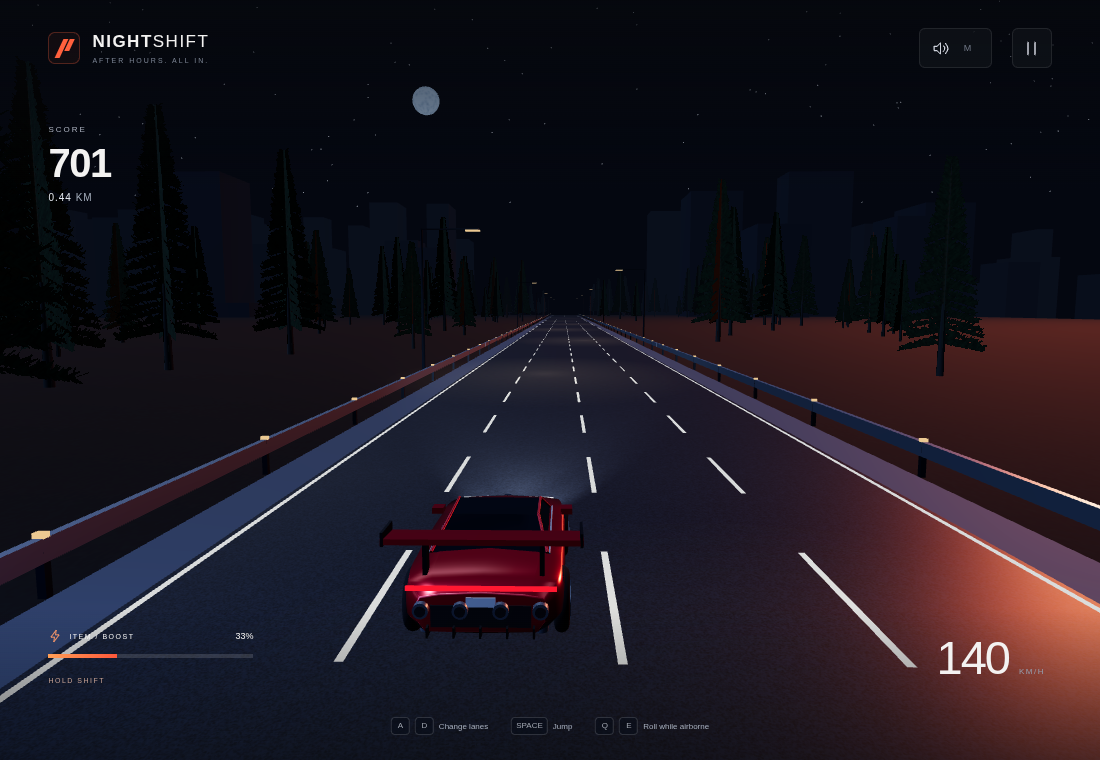
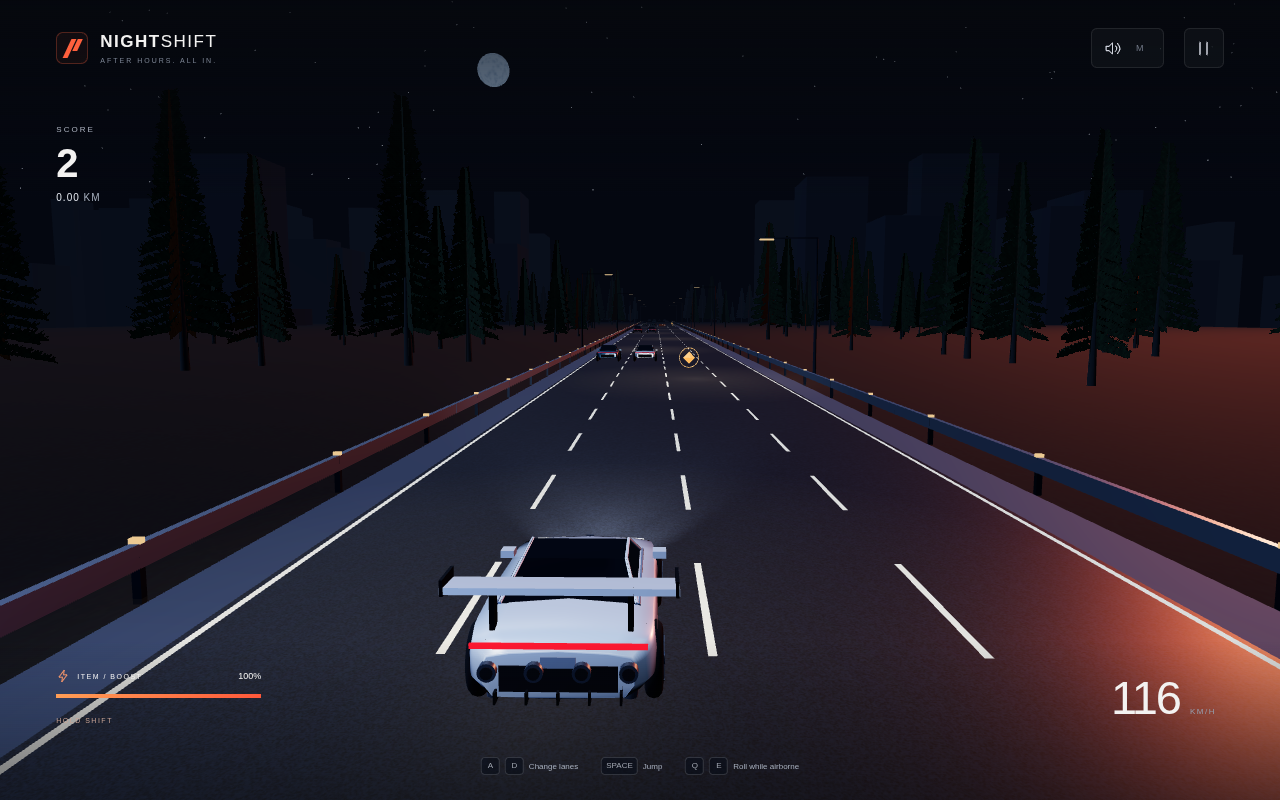
Add white roadster and traffic-hit launches with bonus points

diff --git a/src/i18n.ts b/src/i18n.ts
@@ -1,6 +1,6 @@
 export const en = {
   pilot: 'PILOT', editPilot: 'Edit pilot', tagline: 'THE CITY SLEEPS. YOU DON’T.', rollButton: 'ROLL', boostButton: 'BOOST', personalRecord: 'PERSONAL RECORD',
-  intro: 'Own the night. Find your line.', description: 'Dodge traffic, take flight, and push past your best.',
+  intro: 'Own the night. Find your line.', description: 'Hit traffic to take flight. Watch out for hurdles.',
   best: 'ALL-TIME BEST', distance: 'DISTANCE', score: 'SCORE', play: 'PLAY',
   rankings: 'Rankings', settings: 'Settings', controls: 'Controls', sound: 'Sound',
   independent: 'Independent fan game. Not affiliated with Tesla, Inc.',
@@ -11,8 +11,8 @@ export const en = {
   contextLost: 'Graphics connection lost. Retry to rebuild the scene. Your personal records are saved.',
   retry: 'TRY AGAIN', error: 'LET’S GET YOU BACK ON THE ROAD',
   pause: 'Pause', paused: 'TAKE A BREATHER.', pauseText: 'Your run is right where you left it.',
-  resume: 'RESUME', menu: 'MAIN MENU', over: 'END OF THE ROAD.', collision: 'Traffic caught up. The next run is yours.',
-  again: 'PLAY AGAIN', finalScore: 'FINAL SCORE', finalDistance: 'DISTANCE DRIVEN', record: 'NEW PERSONAL BEST',
+  resume: 'RESUME', menu: 'MAIN MENU', over: 'END OF THE ROAD.', collision: 'You hit a hurdle. Try again and chase your best.',
+  again: 'TRY AGAIN', finalScore: 'FINAL SCORE', finalDistance: 'DISTANCE DRIVEN', record: 'NEW PERSONAL BEST',
   bestComparison: 'PERSONAL BEST', stored: 'Record saved on this device.', notStored: 'Browser storage is unavailable. Records won’t survive a reload.',
   offline: 'Online rankings unavailable', offlineDetail: 'Personal records stay on this device. A ranking server hasn’t been configured.',
   rankingFailed: 'Couldn’t connect to rankings. Offline play is available.', submissionPending: 'Submitting your run…', submissionSaved: 'Run submitted to online rankings.', submissionFailed: 'Online submission failed. Your local record is saved.',
@@ -25,32 +25,32 @@ export const en = {
   steer: 'Change lanes', jump: 'Jump', boost: 'Hold to boost', roll: 'Roll while airborne', brake: 'Brake', horn: 'Horn',
   mute: 'Mute', restart: 'Restart after a crash', pauseControl: 'Pause / resume',
   touchHint: 'On mobile, use the left/right pads and JUMP, ROLL, and BOOST buttons. Hold a direction to cross more lanes. Gold cells refill boost.',
-  startHint: 'Jump over traffic. Q / E adds a roll for +250 points. Close passes earn +100. Gold cells give +30 energy and +75 points.',
+  startHint: 'Hit a traffic car to launch upward and earn +200 points once per car. Hitting an orange hurdle ends the run. Q / E adds an airborne roll for +250. Gold cells refill boost.',
   letsDrive: 'LET’S DRIVE', close: 'Close',
   profile: 'YOUR PILOT', name: 'Pilot name', region: 'Region', regionHint: 'Region is your choice. No location permission is requested.', save: 'SAVE PILOT',
   regionGLOBAL: 'Worldwide', regionNA: 'North America', regionSA: 'South America', regionEU: 'Europe', regionAS: 'Asia', regionAF: 'Africa', regionOC: 'Oceania',
   item: 'ITEM / BOOST', active: 'BOOST ACTIVE', depleted: 'RECHARGING', charged: 'HOLD SHIFT', speed: 'KM/H',
-  jumpCue: 'AIRBORNE', rollCue: 'BARREL ROLL +250', pickupCue: 'ENERGY +30', nearCue: 'CLOSE CALL +100',
+  jumpCue: 'AIRBORNE', rollCue: 'BARREL ROLL +250', pickupCue: 'ENERGY +30', nearCue: 'CLOSE CALL +100', ramCue: 'TRAFFIC HIT +200',
   privacyBody: 'Settings, your pilot name, and personal records are stored in your browser. No analytics or location tracking are included. If an optional ranking service is enabled, submitting a run sends your chosen name, region, distance, and run statistics to that service. You can clear saved data in your browser settings.',
   termsBody: 'A free independent fan game for entertainment. Tesla is a trademark of its owner; this project is not affiliated with or endorsed by Tesla, Inc. Drive safely in real life. Online scores are client reported and may not be cheat-proof.',
-  aboutBody: 'Tesla Night Shift is an original Three.js arcade game: one night highway, a red roadster, and a new record to chase. Vehicle geometry, scenery, textures, effects, and synthesized audio are generated locally. Inspired by the interface and gameplay brief supplied for Roadster Dash; its live gameplay could not be independently inspected.',
+  aboutBody: 'Tesla Night Shift is an original Three.js arcade game: one night highway, a white roadster, and a new record to chase. Vehicle geometry, scenery, textures, effects, and synthesized audio are generated locally. Inspired by the interface and gameplay brief supplied for Roadster Dash; its live gameplay could not be independently inspected.',
   aboutTitle: 'ABOUT NIGHT SHIFT', privacyTitle: 'YOUR PRIVACY', termsTitle: 'PLAYING FAIR',
   submissionOffline: 'Local records only · online rankings unavailable',
 };
 export type TextKey = keyof typeof en;
 export const es: Record<TextKey, string> = {
   pilot: 'PILOTO', editPilot: 'Editar piloto', tagline: 'LA CIUDAD DUERME. TÚ NO.', rollButton: 'GIRAR', boostButton: 'TURBO', personalRecord: 'RÉCORD PERSONAL',
-  intro: 'Domina la noche. Encuentra tu camino.', description: 'Esquiva el tráfico, salta y supera tu récord.',
+  intro: 'Domina la noche. Encuentra tu camino.', description: 'Golpea el tráfico para volar. Evita las barreras.',
   best: 'MEJOR PUNTUACIÓN', distance: 'DISTANCIA', score: 'PUNTOS', play: 'JUGAR', rankings: 'Clasificación', settings: 'Ajustes', controls: 'Controles', sound: 'Sonido',
   independent: 'Juego independiente. Sin afiliación con Tesla, Inc.', privacy: 'Privacidad', terms: 'Términos', about: 'Acerca de', support: 'Apoyar', ready: '¿LISTO PARA UN NUEVO RÉCORD?', night: 'AUTOPISTA NOCTURNA', original: 'CONDUCCIÓN ARCADE ORIGINAL',
   loading: 'PREPARANDO LA NOCHE', loadCheck: 'Comprobando gráficos', loadWorld: 'Creando autopista y vehículos', loadReady: 'Listo para conducir',
   graphicsError: 'El navegador no pudo iniciar la escena 3D.', unsupported: 'Este juego requiere WebGL 2. Activa la aceleración gráfica, actualiza el navegador o prueba otro dispositivo.', contextLost: 'Se perdió la conexión gráfica. Reintenta para reconstruir la escena. Tus récords están guardados.', retry: 'REINTENTAR', error: 'VOLVAMOS A LA CARRETERA',
-  pause: 'Pausa', paused: 'TOMA UN RESPIRO.', pauseText: 'Tu partida sigue donde la dejaste.', resume: 'CONTINUAR', menu: 'MENÚ PRINCIPAL', over: 'FIN DEL CAMINO.', collision: 'El tráfico te alcanzó. La próxima es tuya.', again: 'VOLVER A JUGAR', finalScore: 'PUNTUACIÓN FINAL', finalDistance: 'DISTANCIA RECORRIDA', record: 'NUEVO RÉCORD PERSONAL', bestComparison: 'RÉCORD PERSONAL', stored: 'Récord guardado en este dispositivo.', notStored: 'El almacenamiento no está disponible. Los récords se perderán al recargar.',
+  pause: 'Pausa', paused: 'TOMA UN RESPIRO.', pauseText: 'Tu partida sigue donde la dejaste.', resume: 'CONTINUAR', menu: 'MENÚ PRINCIPAL', over: 'FIN DEL CAMINO.', collision: 'Chocaste con una barrera. Reintenta y supera tu récord.', again: 'REINTENTAR', finalScore: 'PUNTUACIÓN FINAL', finalDistance: 'DISTANCIA RECORRIDA', record: 'NUEVO RÉCORD PERSONAL', bestComparison: 'RÉCORD PERSONAL', stored: 'Récord guardado en este dispositivo.', notStored: 'El almacenamiento no está disponible. Los récords se perderán al recargar.',
   offline: 'Clasificación en línea no disponible', offlineDetail: 'Los récords se guardan en este dispositivo. No hay servidor de clasificación configurado.', rankingFailed: 'No se pudo conectar. Puedes jugar sin conexión.', submissionPending: 'Enviando tu partida…', submissionSaved: 'Partida enviada a la clasificación.', submissionFailed: 'No se pudo enviar. Tu récord local está guardado.',
   globalTop: 'TOP 100 GLOBAL', allTime: 'HISTÓRICO', weekly: 'SEMANAL', global: 'GLOBAL', regional: 'MI REGIÓN', weeklyNote: 'La clasificación semanal se reinicia los lunes a las 00:00 UTC.', rankLoading: 'Cargando clasificación…', emptyRank: 'Aún no hay partidas. ¡Consigue el primer récord!',
   graphics: 'Calidad gráfica', qualityLow: 'Baja · rendimiento', qualityMedium: 'Media · equilibrada', qualityHigh: 'Alta · detalle', volume: 'Volumen de efectos', muted: 'Silenciar', reduced: 'Movimiento reducido', shake: 'Vibración de cámara', settingsHint: 'Los ajustes se guardan automáticamente en este dispositivo.',
   how: 'ENCUENTRA TU RITMO.', controlsIntro: 'El avance es automático. Elige tu carril y el momento de saltar.', steer: 'Cambiar de carril', jump: 'Saltar', boost: 'Mantener para acelerar', roll: 'Girar en el aire', brake: 'Frenar', horn: 'Bocina', mute: 'Silenciar', restart: 'Reiniciar tras un choque', pauseControl: 'Pausar / continuar',
-  touchHint: 'En móvil, usa los botones de dirección, SALTAR, GIRAR y TURBO. Mantén una dirección para cruzar más carriles. Las celdas doradas recargan el turbo.', startHint: 'Salta el tráfico. Q / E añade un giro por +250 puntos. Pasar cerca da +100. Las celdas dan +30 de energía y +75 puntos.', letsDrive: 'A CONDUCIR', close: 'Cerrar', profile: 'TU PILOTO', name: 'Nombre del piloto', region: 'Región', regionHint: 'Tú eliges la región. No se solicita tu ubicación.', save: 'GUARDAR PILOTO',
+  touchHint: 'En móvil, usa los botones de dirección, SALTAR, GIRAR y TURBO. Mantén una dirección para cruzar más carriles. Las celdas doradas recargan el turbo.', startHint: 'Golpea un coche para saltar y ganar +200 puntos una vez por coche. Chocar con una barrera naranja termina la partida. Q / E añade un giro en el aire por +250. Las celdas recargan el turbo.', letsDrive: 'A CONDUCIR', close: 'Cerrar', profile: 'TU PILOTO', name: 'Nombre del piloto', region: 'Región', regionHint: 'Tú eliges la región. No se solicita tu ubicación.', save: 'GUARDAR PILOTO',
   regionGLOBAL: 'Todo el mundo', regionNA: 'América del Norte', regionSA: 'América del Sur', regionEU: 'Europa', regionAS: 'Asia', regionAF: 'África', regionOC: 'Oceanía',
-  item: 'OBJETO / TURBO', active: 'TURBO ACTIVO', depleted: 'RECARGANDO', charged: 'MANTÉN SHIFT', speed: 'KM/H', jumpCue: 'EN EL AIRE', rollCue: 'GIRO +250', pickupCue: 'ENERGÍA +30', nearCue: 'POR POCO +100', privacyBody: 'Los ajustes, el nombre del piloto y los récords se guardan en tu navegador. No se incluyen análisis ni seguimiento de ubicación. Si se activa un servidor de clasificación, enviar una partida comparte tu nombre elegido, región, distancia y estadísticas con ese servicio. Puedes borrar los datos en los ajustes del navegador.', termsBody: 'Juego independiente gratuito de entretenimiento. Tesla es una marca de su propietario; este proyecto no está afiliado ni respaldado por Tesla, Inc. Conduce con seguridad en la vida real. Las puntuaciones en línea son enviadas por el cliente y no son inmunes a trampas.', aboutBody: 'Tesla Night Shift es un juego arcade original de Three.js: una autopista nocturna, un deportivo rojo y un nuevo récord. La geometría, el entorno, las texturas, los efectos y el audio se generan localmente. Inspirado en la especificación de Roadster Dash; no se pudo inspeccionar su juego en vivo.', aboutTitle: 'ACERCA DE NIGHT SHIFT', privacyTitle: 'TU PRIVACIDAD', termsTitle: 'JUEGO LIMPIO', submissionOffline: 'Solo récords locales · clasificación no disponible',
+  item: 'OBJETO / TURBO', active: 'TURBO ACTIVO', depleted: 'RECARGANDO', charged: 'MANTÉN SHIFT', speed: 'KM/H', jumpCue: 'EN EL AIRE', rollCue: 'GIRO +250', pickupCue: 'ENERGÍA +30', nearCue: 'POR POCO +100', ramCue: 'CHOQUE CON TRÁFICO +200', privacyBody: 'Los ajustes, el nombre del piloto y los récords se guardan en tu navegador. No se incluyen análisis ni seguimiento de ubicación. Si se activa un servidor de clasificación, enviar una partida comparte tu nombre elegido, región, distancia y estadísticas con ese servicio. Puedes borrar los datos en los ajustes del navegador.', termsBody: 'Juego independiente gratuito de entretenimiento. Tesla es una marca de su propietario; este proyecto no está afiliado ni respaldado por Tesla, Inc. Conduce con seguridad en la vida real. Las puntuaciones en línea son enviadas por el cliente y no son inmunes a trampas.', aboutBody: 'Tesla Night Shift es un juego arcade original de Three.js: una autopista nocturna, un deportivo blanco y un nuevo récord. La geometría, el entorno, las texturas, los efectos y el audio se generan localmente. Inspirado en la especificación de Roadster Dash; no se pudo inspeccionar su juego en vivo.', aboutTitle: 'ACERCA DE NIGHT SHIFT', privacyTitle: 'TU PRIVACIDAD', termsTitle: 'JUEGO LIMPIO', submissionOffline: 'Solo récords locales · clasificación no disponible',
 };

diff --git a/index.html b/index.html
@@ -22,7 +22,7 @@
   <symbol id="i-pause" viewBox="0 0 24 24"><path d="M8 5v14M16 5v14"/></symbol>
 </defs></svg>
 <main id="app">
-  <canvas id="world" aria-label="Interactive 3D night highway with a red Tesla-inspired sports car"></canvas>
+  <canvas id="world" aria-label="Interactive 3D night highway with a white Tesla-inspired sports car"></canvas>
   <div class="scene-shade" aria-hidden="true"></div>
   <header class="topbar" id="topbar" hidden>
     <a class="brand" href="#" id="brand-home" aria-label="Night Shift main menu"><i class="brand-mark" aria-hidden="true"></i><span>NIGHT<span class="brand-light">SHIFT</span><small>AFTER HOURS. ALL IN.</small></span></a>
@@ -41,7 +41,7 @@
     <div class="eyebrow"><span class="status-dot"></span><span data-t="tagline">THE CITY SLEEPS. YOU DON’T.</span></div>
     <h1><span id="title-first">TESLA</span><span id="title-second">NIGHT SHIFT</span><i class="title-period">.</i></h1>
     <p class="menu-intro" data-t="intro">Own the night. Find your line.</p>
-    <p class="menu-description" data-t="description">Dodge traffic, take flight, and push past your best.</p>
+    <p class="menu-description" data-t="description">Hit traffic to take flight. Watch out for hurdles.</p>
     <div class="records">
       <div><span data-t="best">ALL-TIME BEST</span><strong id="menu-best">0</strong><small data-t="score">SCORE</small></div>
       <div><span data-t="distance">DISTANCE</span><strong id="menu-distance">0.00<small> KM</small></strong><small data-t="personalRecord">PERSONAL RECORD</small></div>
@@ -53,7 +53,7 @@
       <button data-panel="controls"><svg><use href="#i-controls"/></svg><span data-t="controls">Controls</span></button>
     </nav>
   </section>
-  <div class="scene-caption" id="scene-caption" hidden><span>01 <i></i> <span data-t="night">NIGHT HIGHWAY</span></span><strong>REDLINE ROADSTER</strong><small data-t="original">ORIGINAL ARCADE DRIVING</small></div>
+  <div class="scene-caption" id="scene-caption" hidden><span>01 <i></i> <span data-t="night">NIGHT HIGHWAY</span></span><strong>WHITEOUT ROADSTER</strong><small data-t="original">ORIGINAL ARCADE DRIVING</small></div>
   <footer id="footer" hidden>
     <p data-t="independent">Independent fan game. Not affiliated with Tesla, Inc.</p>
     <nav><button data-panel="privacy" data-t="privacy">Privacy</button><button data-panel="terms" data-t="terms">Terms</button><button data-panel="about" data-t="about">About</button><a id="support-link" hidden data-t="support">Support</a><label class="language-label"><span aria-hidden="true">◎</span><select id="language" aria-label="Language"><option value="en">EN</option><option value="es">ES</option></select></label></nav>
@@ -73,7 +73,7 @@
     <section class="card state-card" role="dialog" aria-modal="true" aria-labelledby="pause-title"><div class="eyebrow" data-t="pause">Pause</div><h2 id="pause-title" data-t="paused">TAKE A BREATHER.</h2><p data-t="pauseText">Your run is right where you left it.</p><button class="primary" id="resume-button" data-t="resume">RESUME</button><button class="secondary" data-panel="settings" data-t="settings">Settings</button><button class="text-button" id="pause-menu-button" data-t="menu">MAIN MENU</button></section>
   </div>
   <div class="overlay" id="over-overlay" hidden>
-    <section class="card state-card gameover-card" role="dialog" aria-modal="true" aria-labelledby="over-title"><div class="eyebrow" id="record-label" data-t="over">END OF THE ROAD.</div><h2 id="over-title" data-t="over">END OF THE ROAD.</h2><p data-t="collision">Traffic caught up. The next run is yours.</p><div class="result-grid"><div><span data-t="finalScore">FINAL SCORE</span><strong id="final-score">0</strong></div><div><span data-t="finalDistance">DISTANCE DRIVEN</span><strong><b id="final-distance">0.00</b><small> KM</small></strong></div></div><div class="best-line"><span data-t="bestComparison">PERSONAL BEST</span><b id="final-best">0</b></div><p class="local-status" id="local-status"></p><p class="submission-status" id="submission-status" aria-live="polite"></p><button class="primary" id="again-button"><span data-t="again">PLAY AGAIN</span><kbd>R</kbd></button><button class="text-button" id="over-menu-button" data-t="menu">MAIN MENU</button></section>
+    <section class="card state-card gameover-card" role="dialog" aria-modal="true" aria-labelledby="over-title"><div class="eyebrow" id="record-label" data-t="over">END OF THE ROAD.</div><h2 id="over-title" data-t="over">END OF THE ROAD.</h2><p data-t="collision">You hit a hurdle. Try again and chase your best.</p><div class="result-grid"><div><span data-t="finalScore">FINAL SCORE</span><strong id="final-score">0</strong></div><div><span data-t="finalDistance">DISTANCE DRIVEN</span><strong><b id="final-distance">0.00</b><small> KM</small></strong></div></div><div class="best-line"><span data-t="bestComparison">PERSONAL BEST</span><b id="final-best">0</b></div><p class="local-status" id="local-status"></p><p class="submission-status" id="submission-status" aria-live="polite"></p><button class="primary" id="again-button"><span data-t="again">TRY AGAIN</span><kbd>R</kbd></button><button class="text-button" id="over-menu-button" data-t="menu">MAIN MENU</button></section>
   </div>
   <div class="overlay modal-overlay" id="panel-overlay" hidden>
     <section class="card panel-card" role="dialog" aria-modal="true" aria-labelledby="panel-title" tabindex="-1">

diff --git a/tests/simulation.test.ts b/tests/simulation.test.ts
@@ -37,10 +37,34 @@ test('swept collision detects a high-speed crossing but lets an airborne car cle
   assert(!sweptBox([0, 3, 20], [0, 3, -20], [1, 1, 4]));
   const r = empty(), car = { ...r.obstacles[0], active: true, x: r.x, prevZ: -10, z: 10 };
   assert(hitsTraffic(r, car)); r.y = r.prevY = 2.5; assert(!hitsTraffic(r, car));
-  r.y = r.prevY = 0; Object.assign(r.obstacles[0], car, { z: -3.6, prevZ: -3.6 });
+  r.y = r.prevY = 0; Object.assign(r.obstacles[0], car, { z: -2, prevZ: -2, variant: 2, speed: 0, height: 1.05, length: 1.1 });
   let collision = 0; simulate(r, emptyCommands(), 1 / 120, e => { if (e === 'collision') collision++; });
   assert(!r.alive); assert.equal(collision, 1); const distance = r.distance;
   simulate(r, emptyCommands(), 1 / 120); assert.equal(r.distance, distance);
+});
+test('traffic collisions launch the player and award 200 points only once per car', () => {
+  for (const variant of [0, 1]) {
+    const r = empty(), car = r.obstacles[0], events: string[] = [];
+    Object.assign(car, { active: true, x: r.x, z: -3.5, prevZ: -3.5, variant });
+    simulate(r, emptyCommands(), 1 / 120, e => events.push(e));
+    assert(r.alive && r.y > 0 && r.vy > 11.5); assert.equal(r.trafficHits, 1);
+    assert(r.score >= 200); assert.equal(events.filter(e => e === 'ram').length, 1);
+    assert(!events.includes('collision')); assert(car.hit && car.nearMissed);
+    step(r, .4); assert(r.y > 2 && r.alive); assert.equal(r.trafficHits, 1);
+    // Landing against the same car cannot farm the bonus.
+    r.y = r.prevY = r.vy = 0; car.z = car.prevZ = -2;
+    step(r, .1); assert.equal(r.trafficHits, 1); assert.equal(r.nearMisses, 0); assert.equal(r.vy, 0);
+    const fresh = createRun(); assert.equal(fresh.trafficHits, 0); assert(fresh.obstacles.every(o => !o.hit));
+  }
+});
+test('hurdles still end a run during a traffic launch, but can be cleared by jumping', () => {
+  const r = empty();
+  Object.assign(r.obstacles[0], { active: true, x: r.x, z: -3.5, variant: 0 });
+  Object.assign(r.obstacles[1], { active: true, x: r.x, z: -2, variant: 2, speed: 0, height: 1.05, length: 1.1 });
+  step(r, .02); assert.equal(r.trafficHits, 1); assert(!r.alive);
+  const airborne = empty(); airborne.y = airborne.prevY = 2.5;
+  Object.assign(airborne.obstacles[0], { active: true, x: airborne.x, z: -2, variant: 2, speed: 0, height: 1.05, length: 1.1 });
+  step(airborne, .03); assert(airborne.alive); assert.equal(airborne.trafficHits, 0);
 });
 test('pickups refill energy once and near misses score once', () => {
   const r = empty(); r.energy = 15; Object.assign(r.pickupsPool[0], { active: true, lane: 1, z: -2.9, prevZ: -2.9 });
@@ -55,14 +79,21 @@ test('pickups refill energy once and near misses score once', () => {
 test('generated traffic always leaves a connected, reachable corridor with bounded density', () => {
   const r = empty(887); r.distance = 35000;
   for (let i = 0; i < 1000; i++) {
-    r.obstacles.forEach(o => o.active = false); r.pickupsPool.forEach(p => p.active = false);
+    r.obstacles.forEach(o => { o.active = false; o.hit = true; }); r.pickupsPool.forEach(p => p.active = false);
     const previous = r.lastSafeLane; spawnRow(r, -420);
     const active = r.obstacles.filter(o => o.active);
-    assert(active.length >= 1 && active.length <= 3);
+    assert(active.length >= 2 && active.length <= 3);
+    assert(active.filter(o => o.variant !== 2).length >= 2);
+    assert(active.filter(o => o.variant === 2).length <= 1);
     assert(!active.some(o => o.lane === r.lastSafeLane)); assert(Math.abs(previous - r.lastSafeLane) <= 1);
-    assert(rowSpacing(66, i / 1000) / 66 >= 2.25);
-    assert(active.every(o => o.speed === 18));
+    assert(rowSpacing(66, i / 1000) / 66 >= 1.95);
+    assert(active.every(o => o.speed === (o.variant === 2 ? 0 : 18) && !o.hit));
   }
+});
+test('a new run starts with at least ten traffic cars and a stationary hurdle', () => {
+  const active = createRun().obstacles.filter(o => o.active);
+  assert(active.filter(o => o.variant !== 2).length >= 10);
+  assert(active.some(o => o.variant === 2 && o.speed === 0));
 });
 test('speed and traffic difficulty increase within limits over a long run', () => {
   const r = empty(); step(r, 600); assert(r.speed <= 61.01 && r.speed > 60); assert(r.energy <= 100);

diff --git a/src/simulation.ts b/src/simulation.ts
@@ -1,4 +1,4 @@
-import { clamp, GRAVITY, JUMP_VELOCITY, LANES } from './config';
+import { clamp, GRAVITY, JUMP_VELOCITY, LANES, TRAFFIC_HIT_POINTS, TRAFFIC_LAUNCH_SPEED, TRAFFIC_SPAWN_Z } from './config';
 import { hitsTraffic, sweptBox } from './collisions';
 import { rowSpacing, spawnRow } from './traffic';
 import type { Commands, Run, SimEvent } from './types';
@@ -8,17 +8,16 @@ export function createRun(seed = 1927): Run {
     x: LANES[1], prevX: LANES[1], lane: 1, y: 0, prevY: 0, vy: 0,
     speed: 32, distance: 0, elapsed: 0, score: 0, energy: 100, boosting: false, boostLocked: false,
     roll: 0, rollTime: -1, rollDuration: .65, rollDirection: 1, rolls: 0, nearMisses: 0,
-    pickups: 0, jumpCooldown: 0, alive: true, nextRow: 110, rowIndex: 0, seed, lastSafeLane: 1,
+    pickups: 0, trafficHits: 0, jumpCooldown: 0, alive: true, nextRow: 125, rowIndex: 0, seed, lastSafeLane: 1,
     obstacles: Array.from({ length: 36 }, (_, id) => ({ active: false, id, lane: 0, x: 0, z: 0,
-      prevZ: 0, speed: 18, height: 1.5, length: 4.75, width: 1.9, variant: 0, nearMissed: false })),
+      prevZ: 0, speed: 18, height: 1.5, length: 4.75, width: 1.9, variant: 0, nearMissed: false, hit: false })),
     pickupsPool: Array.from({ length: 12 }, () => ({ active: false, lane: 0, z: 0, prevZ: 0, phase: 0 })),
   };
-  for (const z of [-110, -280, -450]) spawnRow(run, z);
-  run.nextRow = 175;
+  for (const z of [-70, -195, -320, -445, TRAFFIC_SPAWN_Z]) spawnRow(run, z);
   return run;
 }
 export const emptyCommands = (): Commands => ({ lane: 0, jump: false, roll: 0, boost: false, brake: false, horn: false });
-const calculateScore = (run: Run) => Math.floor(run.distance * (1 + Math.min(run.elapsed / 600, .5)) + run.rolls * 250 + run.nearMisses * 100 + run.pickups * 75);
+const calculateScore = (run: Run) => Math.floor(run.distance * (1 + Math.min(run.elapsed / 600, .5)) + run.rolls * 250 + run.nearMisses * 100 + run.pickups * 75 + run.trafficHits * TRAFFIC_HIT_POINTS);
 
 // Called only with fixed steps by the loop. It has no DOM, Three.js, clock, or audio dependencies.
 export function simulate(run: Run, input: Commands, dt: number, emit: (event: SimEvent) => void = () => {}) {
@@ -63,7 +62,16 @@ export function simulate(run: Run, input: Commands, dt: number, emit: (event: Si
   for (const car of run.obstacles) {
     if (!car.active) continue;
     car.prevZ = car.z; car.z += (run.speed - car.speed) * dt;
-    if (hitsTraffic(run, car)) { run.alive = false; run.score = calculateScore(run); emit('collision'); return; }
+    if (!car.hit && hitsTraffic(run, car)) {
+      if (car.variant === 2) {
+        run.alive = false; run.score = calculateScore(run); emit('collision'); return;
+      }
+      // Each traffic car awards one launch. Hurdles remain lethal, even during
+      // a launch, unless the car's actual jump height clears their collider.
+      car.hit = true; car.nearMissed = true; run.trafficHits++;
+      run.y = Math.max(run.y, .12); run.vy = Math.max(run.vy, TRAFFIC_LAUNCH_SPEED);
+      run.jumpCooldown = .15; run.score = calculateScore(run); emit('ram');
+    }
     if (!car.nearMissed && car.prevZ <= 3 && car.z > 3) {
       car.nearMissed = true;
       if (Math.abs(run.x - car.x) < 3.9) { run.nearMisses++; emit('near'); }
@@ -81,7 +89,7 @@ export function simulate(run: Run, input: Commands, dt: number, emit: (event: Si
   }
   run.nextRow -= (run.speed - 18) * dt;
   if (run.nextRow <= 0) {
-    spawnRow(run, -420);
+    spawnRow(run, TRAFFIC_SPAWN_Z);
     // Use maximum boost speed for the spacing guarantee, not only current speed.
     run.nextRow += rowSpacing(84 - 18, run.distance / 14000);
   }

diff --git a/src/traffic.ts b/src/traffic.ts
@@ -6,10 +6,10 @@ export function random(run: Run) {
   return run.seed / 4294967296;
 }
 export function rowSpacing(speed: number, difficulty: number) {
-  // At least 2.25s between rows even at boost speed. Adjacent safe lanes need
-  // at most 0.45s to reach, leaving >1.8s for reaction. Traffic has equal speed
-  // and no lane changes, so later rows cannot catch the previous row.
-  return Math.max(145, speed * (2.8 - Math.min(difficulty, 1) * .55));
+  // Denser car rows retain at least 1.95s at maximum relative boost speed.
+  // An adjacent reserved lane takes <0.45s to reach. All traffic cars share
+  // a speed; stationary hurdles are limited to one every third row.
+  return Math.max(125, speed * (2.3 - Math.min(Math.max(difficulty, 0), 1) * .35));
 }
 export function spawnRow(run: Run, z: number) {
   const difficulty = Math.min(1, run.distance / 14000);
@@ -21,13 +21,14 @@ export function spawnRow(run: Run, z: number) {
   for (let i = blocked.length - 1; i > 0; i--) {
     const j = Math.floor(random(run) * (i + 1)); [blocked[i], blocked[j]] = [blocked[j], blocked[i]];
   }
-  const count = run.rowIndex < 3 ? 1 : 1 + (random(run) < .55 + difficulty * .35 ? 1 : 0) + (difficulty > .35 && random(run) < difficulty * .45 ? 1 : 0);
-  for (const lane of blocked.slice(0, count)) {
+  const hasHurdle = run.rowIndex >= 2 && run.rowIndex % 3 === 2;
+  const count = hasHurdle ? 3 : run.rowIndex < 2 ? 2 : 2 + (random(run) < .65 + difficulty * .3 ? 1 : 0);
+  for (const [index, lane] of blocked.slice(0, count).entries()) {
     const car = run.obstacles.find(o => !o.active); if (!car) break;
-    const variant = Math.floor(random(run) * 3);
-    Object.assign(car, { active: true, lane, x: LANES[lane], z, prevZ: z, speed: 18,
+    const variant = hasHurdle && index === 2 ? 2 : Math.floor(random(run) * 2);
+    Object.assign(car, { active: true, lane, x: LANES[lane], z, prevZ: z, speed: variant === 2 ? 0 : 18,
       height: variant === 1 ? 1.76 : variant === 2 ? 1.05 : 1.48,
-      length: variant === 2 ? 1.1 : 4.75, width: variant === 2 ? 2.5 : 1.9, variant, nearMissed: false });
+      length: variant === 2 ? 1.1 : 4.75, width: variant === 2 ? 2.5 : 1.9, variant, nearMissed: false, hit: false });
   }
   if (run.rowIndex % 2 === 0) {
     const item = run.pickupsPool.find(p => !p.active);

diff --git a/tests/leaderboard.test.js b/tests/leaderboard.test.js
@@ -13,6 +13,10 @@ test('weekly reset uses Monday midnight UTC and server recomputes scores', () =>
   assert.throws(() => validateRun({ ...data, distance: 99999 }, 12));
   assert.throws(() => validateRun({ ...data, rolls: 9999 }, 12));
   assert.throws(() => validateRun({ ...data, elapsed: NaN }, 12));
+  assert.equal(validateRun({ ...data, trafficHits: 2 }, 12).score, accepted.score + 400);
+  for (const trafficHits of [-1, .5, NaN, Infinity, '2', 10000]) {
+    assert.throws(() => validateRun({ ...data, trafficHits }, 12));
+  }
 });
 test('optional service issues one-use tickets, ranks actual submissions, filters, and rate limits', async () => {
   const dir = await mkdtemp(join(tmpdir(), 'night-ranking-'));
@@ -24,9 +28,10 @@ test('optional service issues one-use tickets, ranks actual submissions, filters
     assert.equal((await (await fetch(base + '/rankings')).json()).entries.length, 0);
     assert.equal((await post('/runs', {}, 'https://wrong.test')).status, 403);
     const { ticket } = await (await post('/runs', {})).json(); assert(ticket);
-    const run = { ticket, name: 'Real Pilot', region: 'AS', distance: 38, elapsed: 1, wallDuration: 1, rolls: 0, nearMisses: 0, pickups: 0 };
+    const run = { ticket, name: 'Real Pilot', region: 'AS', distance: 38, elapsed: 1, wallDuration: 1, rolls: 0, nearMisses: 0, pickups: 0, trafficHits: 1 };
     assert.equal((await post('/scores', run)).status, 201); assert.equal((await post('/scores', run)).status, 400);
     const all = await (await fetch(base + '/rankings?metric=distance')).json(); assert.equal(all.entries.length, 1); assert.equal(all.entries[0].name, 'Real Pilot');
+    assert.equal(all.entries[0].score, Math.floor(38 * (1 + 1 / 600)) + 200);
     const otherRegion = await (await fetch(base + '/rankings?region=EU&period=weekly')).json(); assert.equal(otherRegion.entries.length, 0);
     assert.equal((await fetch(base + '/rankings?metric=bad')).status, 400);
     let limited = false;

diff --git a/src/types.ts b/src/types.ts
@@ -8,16 +8,16 @@ export interface Profile { name: string; region: string; bestScore: number; best
 export interface Obstacle {
   active: boolean; id: number; lane: number; x: number; z: number; prevZ: number;
   speed: number; height: number; length: number; width: number; variant: number;
-  nearMissed: boolean;
+  nearMissed: boolean; hit: boolean;
 }
 export interface Pickup { active: boolean; lane: number; z: number; prevZ: number; phase: number }
 export interface Run {
   x: number; prevX: number; lane: number; y: number; prevY: number; vy: number;
   speed: number; distance: number; elapsed: number; score: number; energy: number;
   boosting: boolean; boostLocked: boolean; roll: number; rollTime: number; rollDuration: number;
-  rollDirection: number; rolls: number; nearMisses: number; pickups: number;
+  rollDirection: number; rolls: number; nearMisses: number; pickups: number; trafficHits: number;
   jumpCooldown: number; alive: boolean; nextRow: number; rowIndex: number;
   obstacles: Obstacle[]; pickupsPool: Pickup[]; seed: number; lastSafeLane: number;
 }
 export interface Commands { lane: number; jump: boolean; roll: number; boost: boolean; brake: boolean; horn: boolean }
-export type SimEvent = 'jump' | 'landing' | 'roll' | 'pickup' | 'near' | 'collision' | 'boost';
+export type SimEvent = 'jump' | 'landing' | 'roll' | 'pickup' | 'near' | 'ram' | 'collision' | 'boost';

diff --git a/src/world.ts b/src/world.ts
@@ -10,7 +10,7 @@ export class World {
   renderer: THREE.WebGLRenderer;
   scene = new THREE.Scene();
   camera = new THREE.PerspectiveCamera(55, 1, .1, 1800);
-  player = createVehicle({ player: true, color: '#c41e30' });
+  player = createVehicle({ player: true, color: '#f3f5f7' });
   private pivot = new THREE.Group();
   private road: Road;
   private effects: Effects;
@@ -109,6 +109,7 @@ export class World {
     this.pivot.position.set(preview ? 2.4 : run.x, (preview ? 0 : run.y) + .7, 0);
     this.pivot.rotation.set(0, 0, preview ? 0 : run.roll);
     this.player.rotation.y = preview ? -.16 : THREE.MathUtils.clamp((run.x - run.prevX) * -3, -.28, .28);
+    this.player.rotation.x = preview || this.settings.reducedMotion || run.y === 0 ? 0 : THREE.MathUtils.clamp(run.vy * .012, -.1, .15);
     this.player.rotation.z = preview || this.settings.reducedMotion ? 0 : (run.prevX - run.x) * -.6;
     this.player.position.y = -.7 + (preview || frozen || this.settings.reducedMotion ? 0 : Math.sin(time * 16) * .006);
     if (!frozen && !preview) this.wheel += run.speed * dt / .4;

diff --git a/src/vehicles.js b/src/vehicles.js
@@ -19,7 +19,7 @@ function pane(parent,vertices,mat){const geo=new THREE.BufferGeometry();geo.setA
 export function createVehicle({player=false,color='#56606c',variant=0}={}) {
   const group=new THREE.Group();
   const suv=!player&&variant===1;
-  const paint=new THREE.MeshPhysicalMaterial({color,metalness:.7,roughness:.22,clearcoat:1,clearcoatRoughness:.14});
+  const paint=new THREE.MeshPhysicalMaterial({color,metalness:player?.22:.7,roughness:player?.29:.22,clearcoat:1,clearcoatRoughness:.14});
   const glass=new THREE.MeshPhysicalMaterial({color:'#101a25',metalness:.55,roughness:.08,clearcoat:1,side:THREE.DoubleSide});
   const rubber=new THREE.MeshStandardMaterial({color:'#0c0e11',roughness:.94});
   const metal=new THREE.MeshStandardMaterial({color:'#a5adba',metalness:.9,roughness:.25});

diff --git a/src/ui.ts b/src/ui.ts
@@ -171,7 +171,7 @@ export class UI {
     this.noticeTime -= dt; if (this.noticeTime <= 0) el('notice').textContent = '';
   }
   event(event: SimEvent) {
-    const key = ({ jump: 'jumpCue', roll: 'rollCue', pickup: 'pickupCue', near: 'nearCue' } as const)[event as 'jump' | 'roll' | 'pickup' | 'near'];
+    const key = ({ jump: 'jumpCue', roll: 'rollCue', pickup: 'pickupCue', near: 'nearCue', ram: 'ramCue' } as const)[event as 'jump' | 'roll' | 'pickup' | 'near' | 'ram'];
     if (key) { el('notice').textContent = this.t(key); this.noticeTime = 1.2; }
   }
   gameOver(run: Run, newRecord: boolean, stored: boolean) {

diff --git a/src/leaderboard.ts b/src/leaderboard.ts
@@ -32,7 +32,7 @@ export class Leaderboard {
     const ticket = await this.ticket; if (!ticket) return 'failed';
     try {
       await this.request('/scores', { ticket, name: profile.name, region: profile.region,
-        distance: run.distance, elapsed: run.elapsed, wallDuration, rolls: run.rolls, nearMisses: run.nearMisses, pickups: run.pickups });
+        distance: run.distance, elapsed: run.elapsed, wallDuration, rolls: run.rolls, nearMisses: run.nearMisses, pickups: run.pickups, trafficHits: run.trafficHits });
       return 'saved';
     } catch { return 'failed'; }
   }

diff --git a/src/main.ts b/src/main.ts
@@ -60,6 +60,7 @@ function event(kind: SimEvent) {
   if (kind === 'pickup') { audio.cue('pickup'); world?.burst(kind, run); }
   if (kind === 'landing') { audio.cue('landing', .4); world?.burst(kind, run); }
   if (kind === 'near') audio.cue('near');
+  if (kind === 'ram') { audio.cue('impact', .3); audio.cue('jump'); world?.burst(kind, run); }
   if (kind === 'collision') world?.burst(kind, run);
 }
 function finish() {
